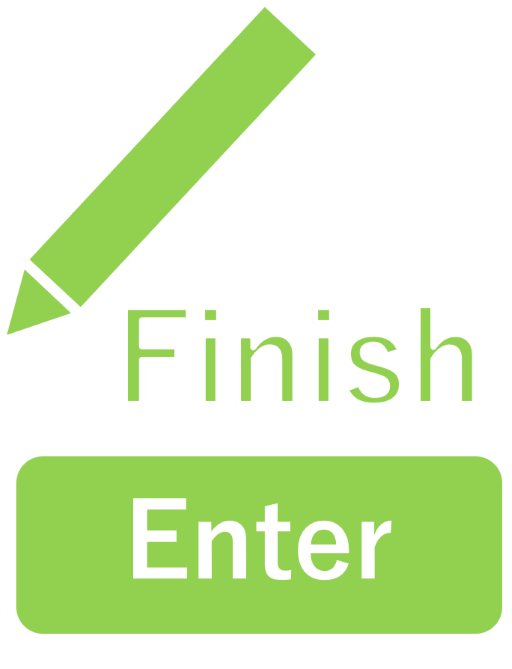
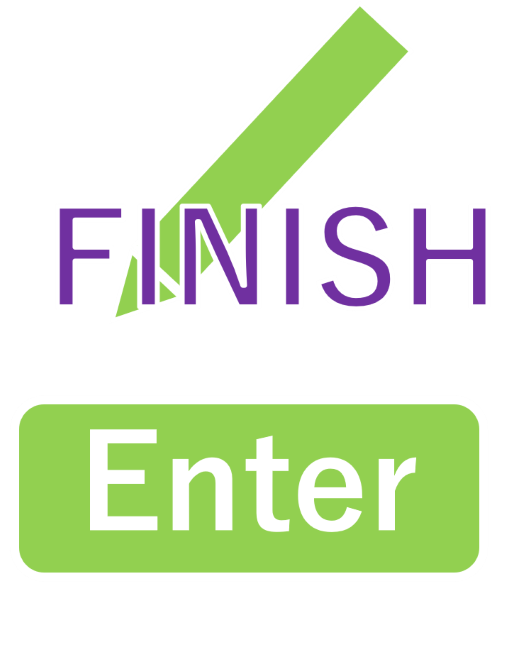
クリアとゲームオーバー、操作説明画像の差し替え

diff --git a/UI/PlayUI.cpp b/UI/PlayUI.cpp
@@ -8,7 +8,7 @@ PlayUI::PlayUI(GameObject* parent)
 
 void PlayUI::Initialize()
 {
-	hDrawPict_ = Image::Load("UI/PlayerUI/Line_UI.png");
+	hDrawPict_ = Image::Load("UI/PlayerUI/Draw_UI.png");
 	assert(hDrawPict_ >= 0);
 	hDeletePict_ = Image::Load("UI/PlayerUI/Delete_UI.png");
 	assert(hDeletePict_ >= 0);
